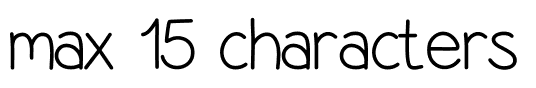
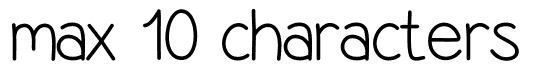
10 characters limit

Changed region(s): [[0.4179, 0.1096, 0.9851, 0.8493], [0.0, 0.1096, 0.4179, 0.8493]]

diff --git a/src/WinPanel.java b/src/WinPanel.java
@@ -84,7 +84,7 @@ public class WinPanel extends FinishingPanel {
         leaderBoardNames.setOpaque(true);
         leaderBoardNames.setText(getLeaderBoardNames(mode, difficulty));
         leaderBoardNames.setFont(new Font("Arial", Font.PLAIN, 16));
-        leaderBoardNames.setSize(new Dimension(180, 130));
+        leaderBoardNames.setSize(new Dimension(170, 130));
         leaderBoardNames.setLocation(new Point(10, 60));
         leaderBoardNames.setVerticalAlignment(JLabel.TOP);
         
@@ -94,8 +94,8 @@ public class WinPanel extends FinishingPanel {
         leaderBoardScores.setOpaque(true);
         leaderBoardScores.setText(getLeaderBoardScores(mode, difficulty));
         leaderBoardScores.setFont(new Font("Arial", Font.PLAIN, 16));
-        leaderBoardScores.setSize(new Dimension(90, 130));
-        leaderBoardScores.setLocation(new Point(210, 60));
+        leaderBoardScores.setSize(new Dimension(100, 130));
+        leaderBoardScores.setLocation(new Point(200, 60));
         leaderBoardScores.setVerticalAlignment(JLabel.TOP);
         
         

diff --git a/src/NameEntryPanel.java b/src/NameEntryPanel.java
@@ -32,7 +32,7 @@ public class NameEntryPanel extends JPanel {
 	
 	private static final int X_POSITION = 215;
 	private static final int Y_POSITION = 130;
-	private static final int MAX_CHAR = 15;
+	private static final int MAX_CHAR = 10;
 	
     /**
 	 * Create a name entry panel.
@@ -121,7 +121,7 @@ public class NameEntryPanel extends JPanel {
             playerOneLabel.setVisible(false);
             playerTwoLabel.setVisible(false);
             playerTwoNameField.setVisible(false);
-            playerTwoNameField.setText("single_player");
+            playerTwoNameField.setText("single");
             done.setLocation(new Point(X_POSITION + 15, Y_POSITION + 110));
         }
         
